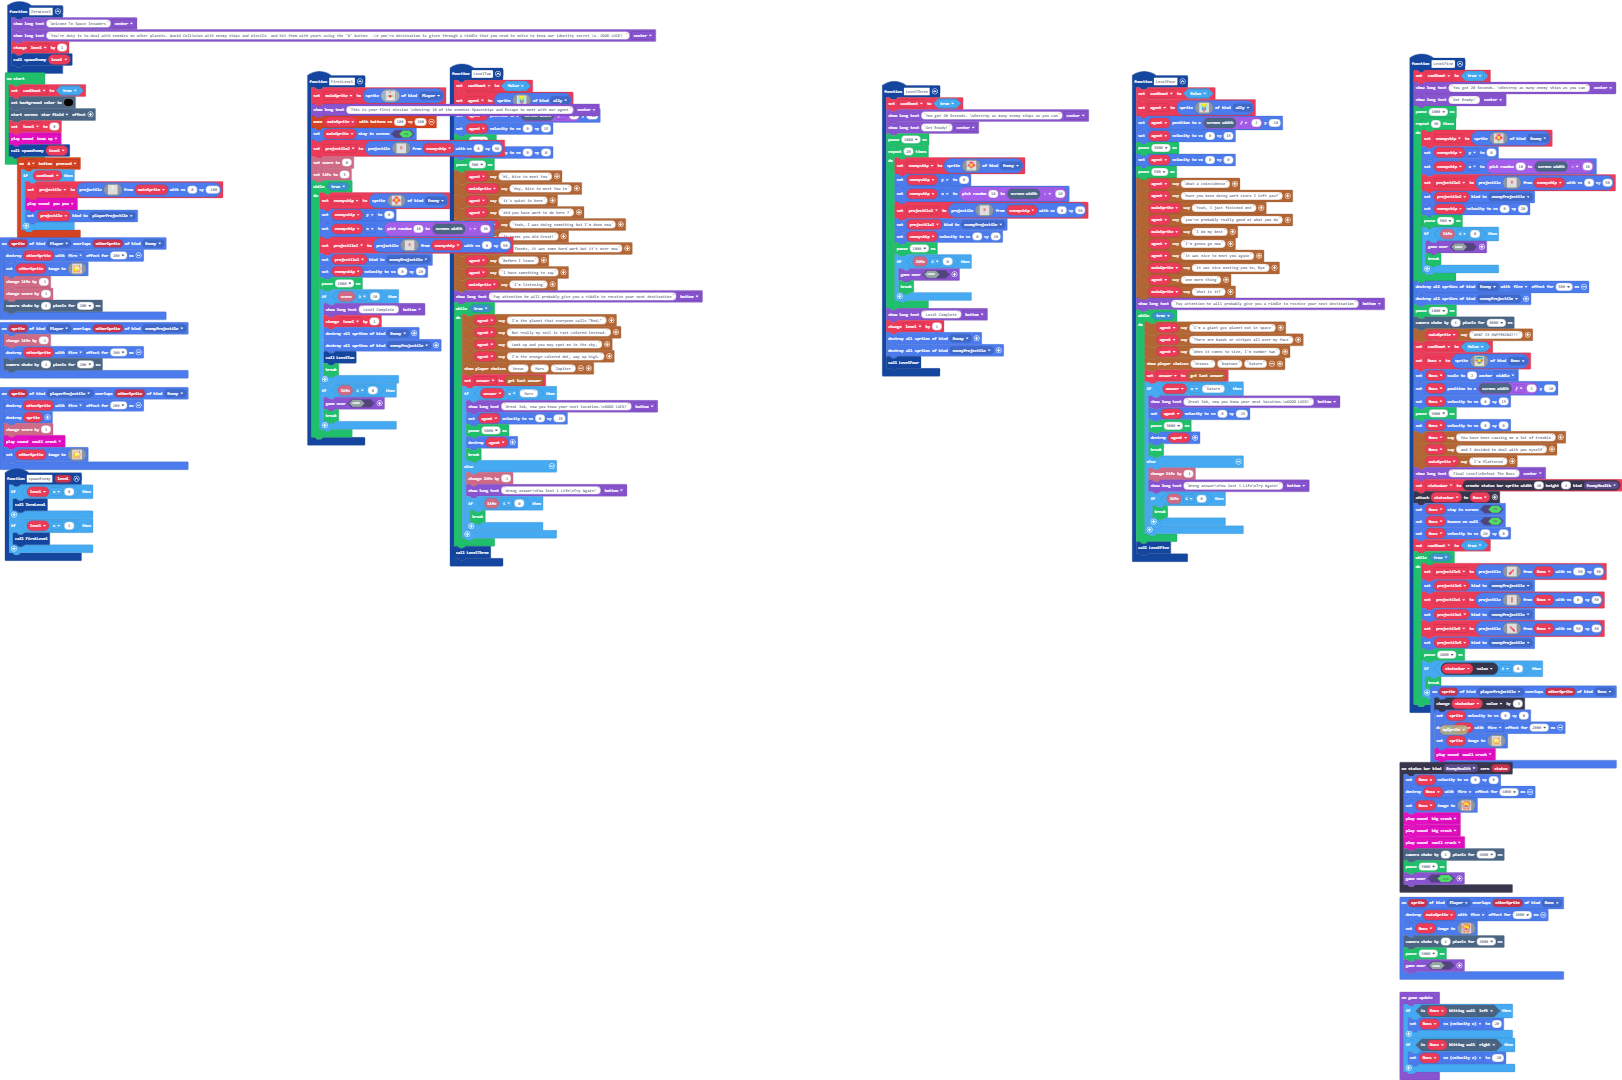
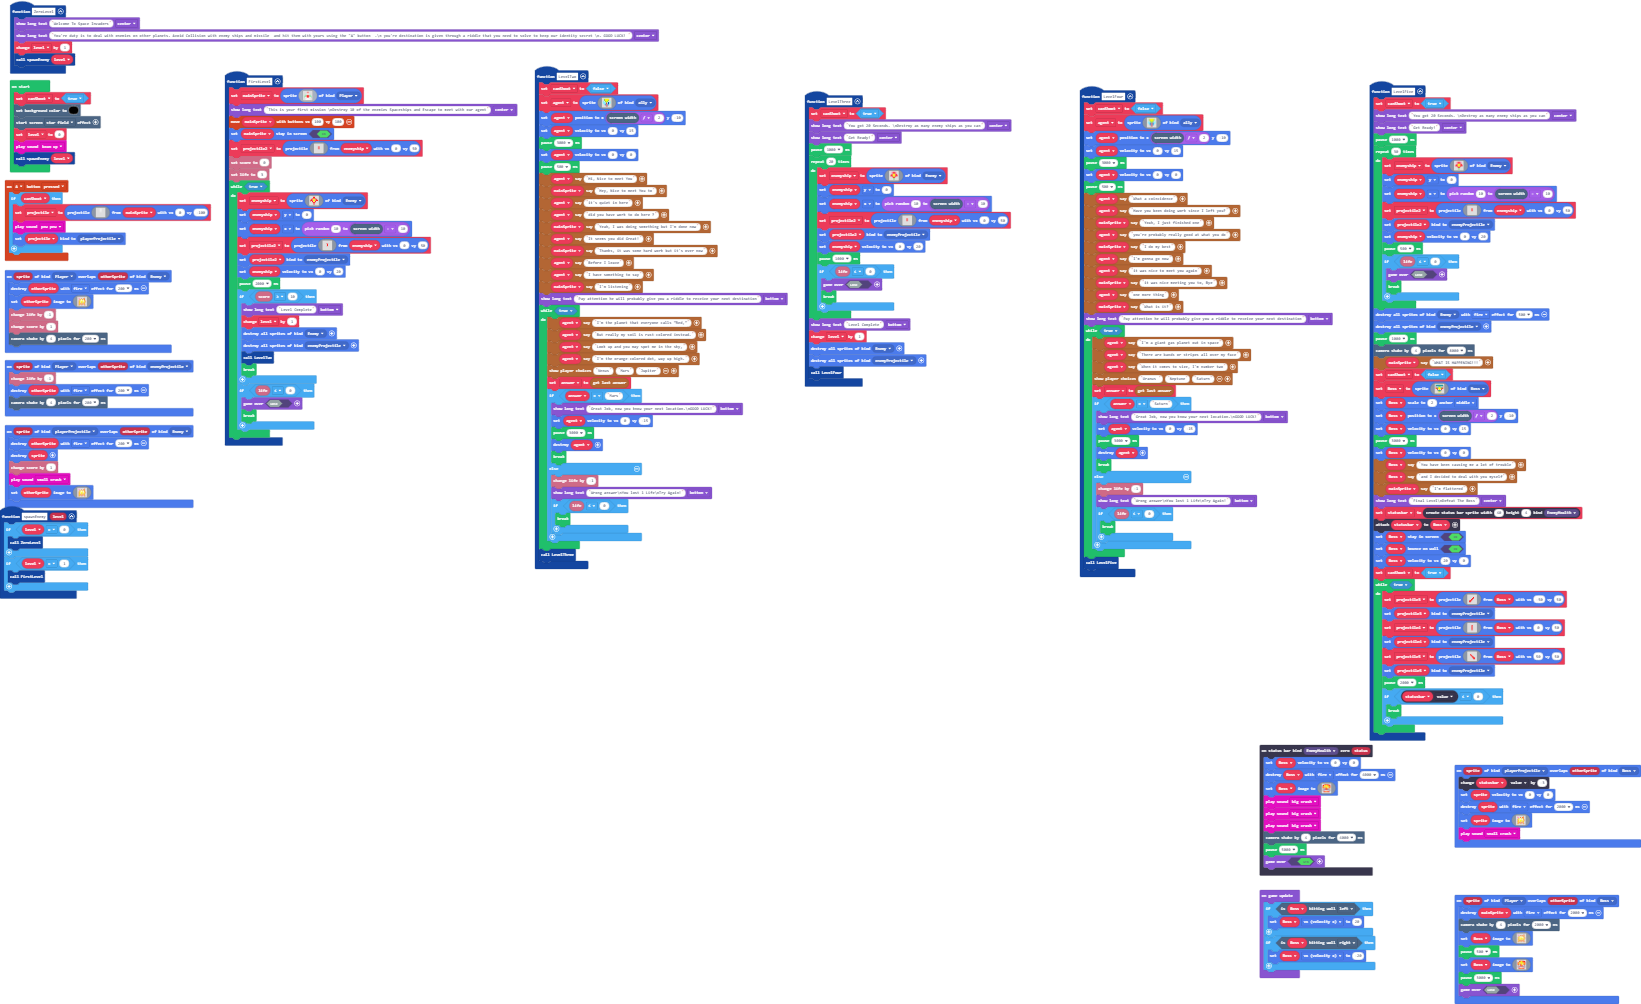
Final Code

diff --git a/main.ts b/main.ts
@@ -253,7 +253,7 @@ statusbars.onZero(StatusBarKind.EnemyHealth, function (status) {
     Boss.setImage(assets.image`drop4`)
     music.bigCrash.play()
     music.bigCrash.play()
-    music.smallCrash.play()
+    music.bigCrash.play()
     scene.cameraShake(4, 4000)
     pause(5000)
     game.over(true)
@@ -509,8 +509,10 @@ sprites.onOverlap(SpriteKind.Player, SpriteKind.Enemy, function (sprite, otherSp
 })
 sprites.onOverlap(SpriteKind.Player, SpriteKind.Boss, function (sprite, otherSprite) {
     mainSprite.destroy(effects.fire, 2000)
-    Boss.setImage(assets.image`drop4`)
     scene.cameraShake(4, 2000)
+    Boss.setImage(assets.image`explosion3`)
+    pause(500)
+    Boss.setImage(assets.image`drop4`)
     pause(3000)
     game.over(false)
 })
